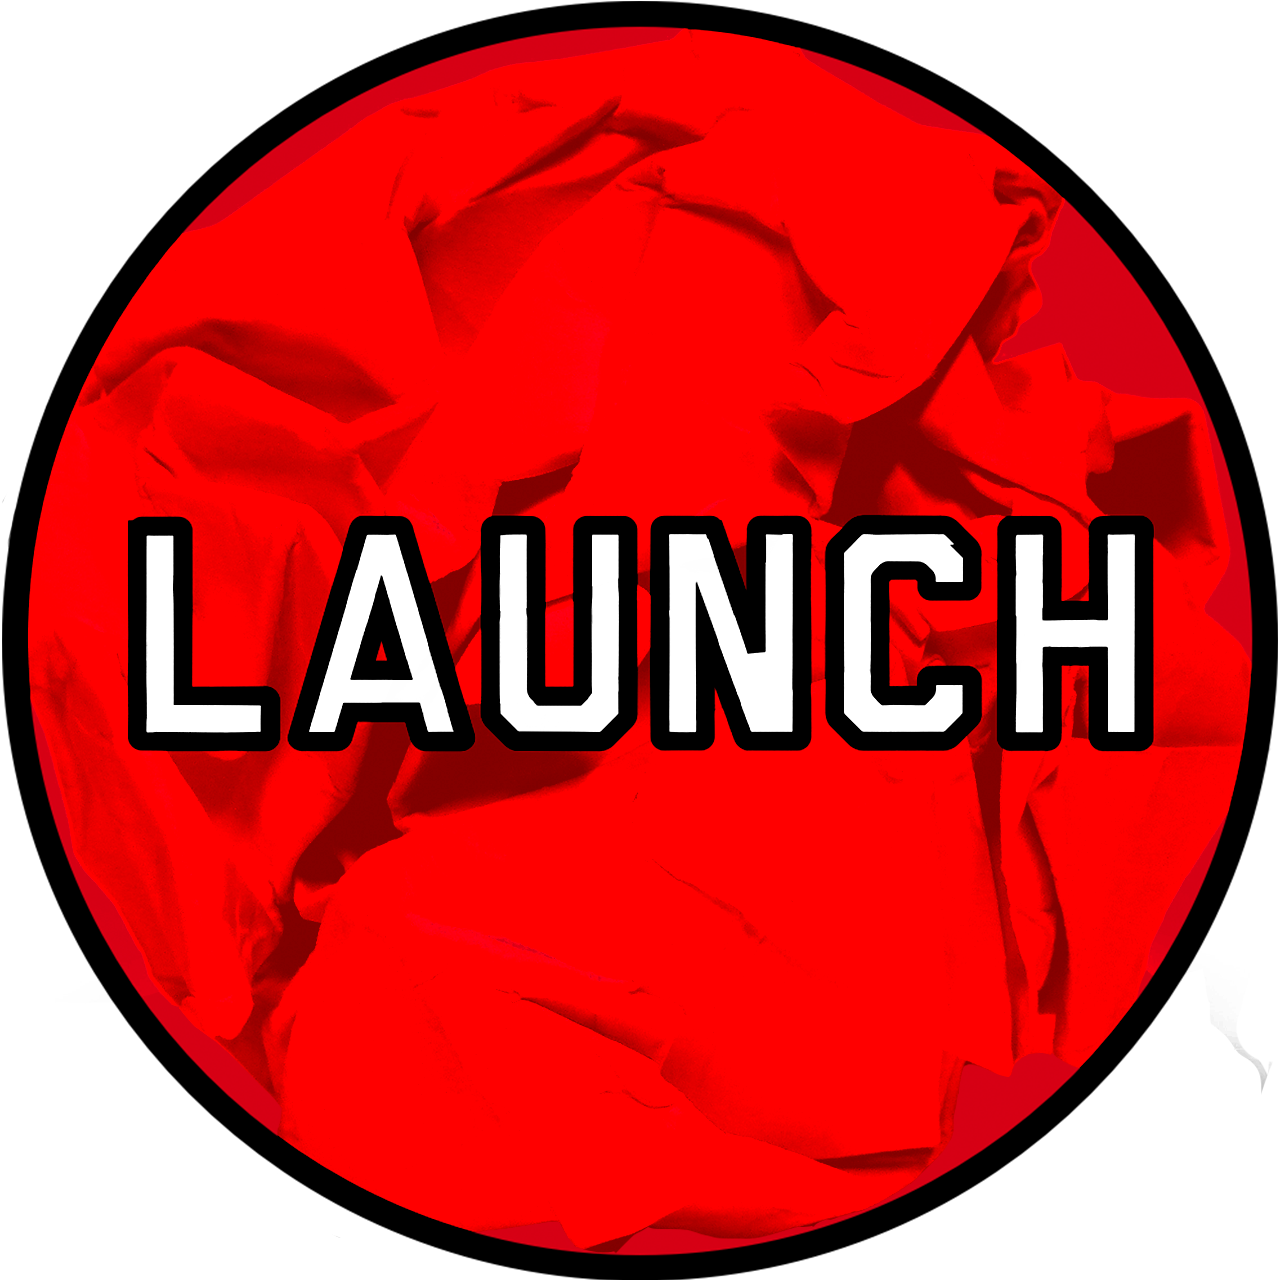
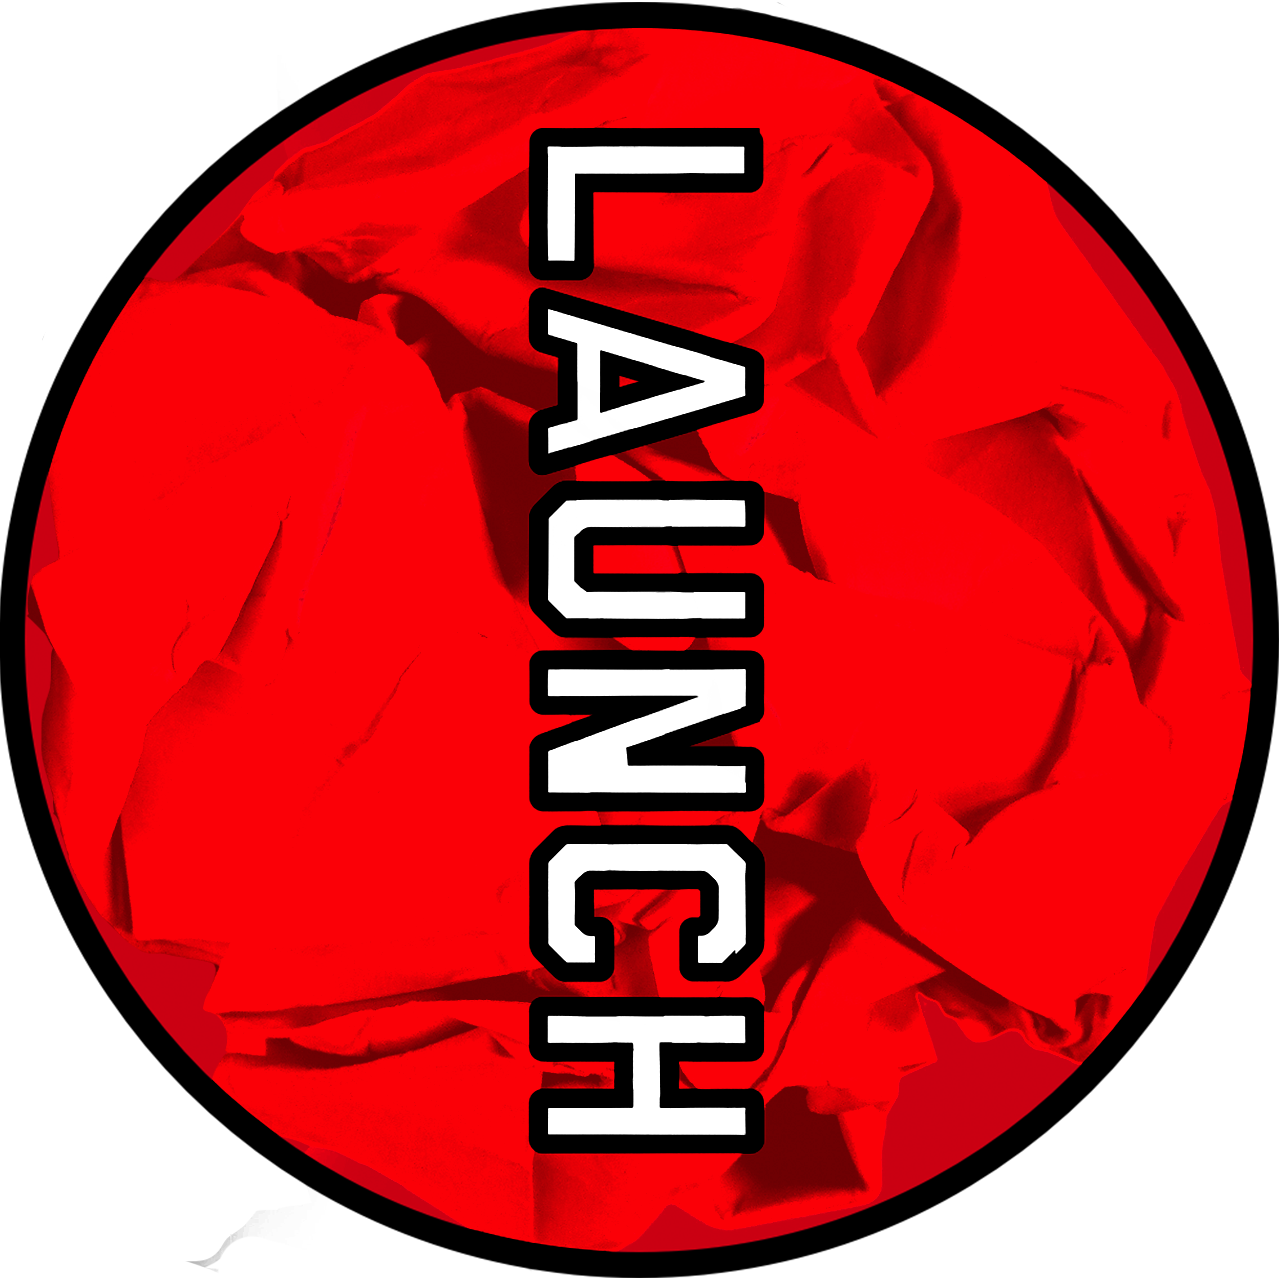
switched game play to be vertical, makes sense to have rocket fly higher....

diff --git a/sat/sat/UniverseLayer.mm b/sat/sat/UniverseLayer.mm
@@ -79,7 +79,9 @@ enum {
 		
 		launchButton = [UIButton buttonWithType:UIButtonTypeCustom];
 		float sizeOfButton = 80;
-		launchButton.frame = CGRectMake([[UIScreen mainScreen]bounds].size.height - sizeOfButton, [UIScreen mainScreen].bounds.size.width - sizeOfButton, sizeOfButton, sizeOfButton);
+//		launchButton.frame = CGRectMake([[UIScreen mainScreen]bounds].size.height - sizeOfButton, [UIScreen mainScreen].bounds.size.width - sizeOfButton, sizeOfButton, sizeOfButton);
+    launchButton.frame = CGRectMake(0,[UIScreen mainScreen].bounds.size.width - sizeOfButton, sizeOfButton, sizeOfButton);
+    
 		UIImage *launchButtonImage = [UIImage imageNamed:@"LaunchButton.png"];
 		[launchButton setBackgroundImage:launchButtonImage forState:UIControlStateNormal];
 		[launchButton addTarget:self action:@selector(launchButtonWasTapped) forControlEvents:UIControlEventTouchUpInside];
